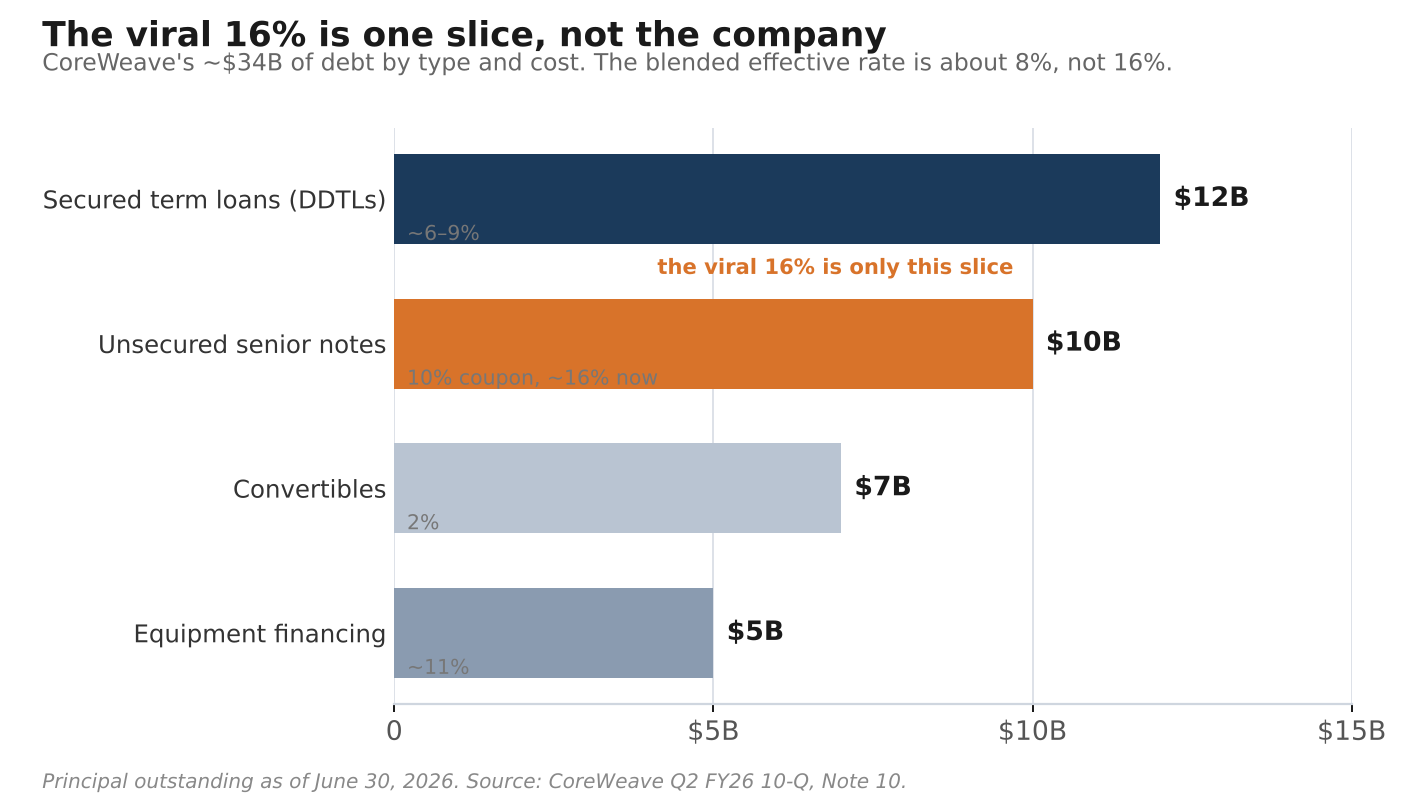
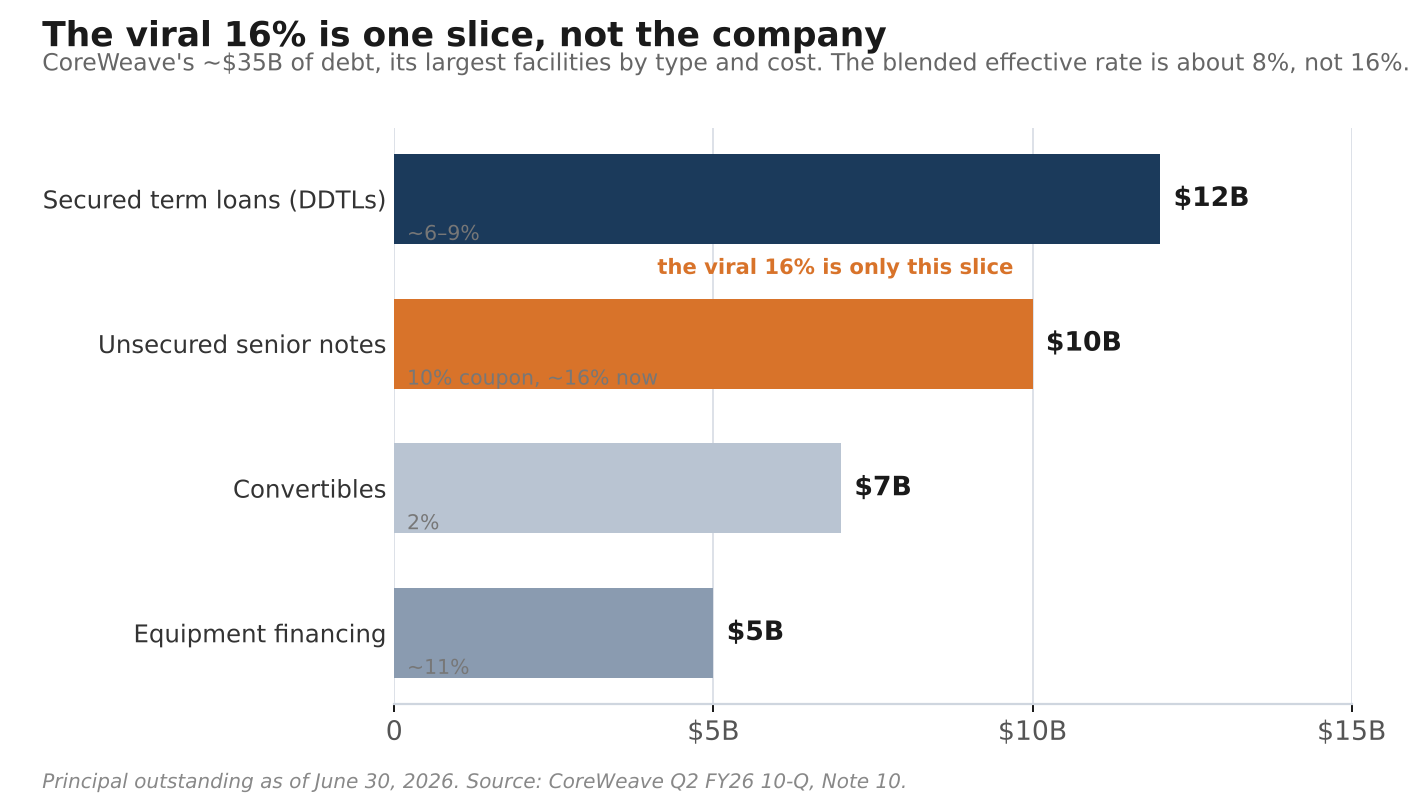
Fix the new labs section, verdict numbers, and chart captions
Labs section: use OpenAI's net number (~$50B net, projecting $70B by
year-end) to match the Oct 8 scare; drop the token-consumption line (not
revenue); soften the backstop (backers have incentive but no obligation,
and Microsoft stepped back from OpenAI this year), which keeps rule 11
meaningful; source Anthropic's $4.7B->$16.8B ramp to FT.

Verdict: '14x' -> '14 times forward earnings'; cut the unsourced rate-move
clause (most of the 30x->14x is earnings growth); 'a third below' ->
'close to 30% below' (14x to 10x is -29%); 'still not in the price' ->
'only starting to be priced' to match the close.

Small: Azure +41% as the hyperscaler-ROI number (MSFT FY26 10-K); C1
caption notes the $/GW only works if each generation earns more per MW
(IREN +125%); C3 now says ~$35B in chart and text.

Claude-Session: https://claude.ai/code/session_01HDhTLet2AMqpzZaHVpR8SL

Changed region(s): [[0.25, 0.0625, 1.0, 0.0938], [0.1562, 0.0625, 0.1875, 0.0938]]

diff --git a/charts/make_charts.py b/charts/make_charts.py
@@ -116,7 +116,7 @@ ax.grid(axis="y", color=GRID, lw=0.8, zorder=0)
 fig.suptitle("Every upgrade sells for more",
              fontsize=15.5, fontweight="bold", color=INK, x=0.085, ha="left", y=0.975)
 fig.text(0.085, 0.905,
-         "NVIDIA's revenue per gigawatt, by chip generation. A refresh is a sale at a higher price.",
+         "NVIDIA's revenue per gigawatt, by generation. It pays only if each one earns more per megawatt.",
          fontsize=10.6, color="#666", va="bottom")
 fig.text(0.085, 0.015,
          "Revenue per gigawatt of deployed compute. Source: NVIDIA roadmap / non-deal roadshow deck, Sep 2026.",
@@ -170,7 +170,7 @@ ax.grid(axis="x", color=GRID, lw=0.8, zorder=0)
 fig.suptitle("The viral 16% is one slice, not the company",
              fontsize=15.5, fontweight="bold", color=INK, x=0.03, ha="left", y=0.975)
 fig.text(0.03, 0.905,
-         "CoreWeave's ~$34B of debt by type and cost. The blended effective rate is about 8%, not 16%.",
+         "CoreWeave's ~$35B of debt, its largest facilities by type and cost. The blended effective rate is about 8%, not 16%.",
          fontsize=10.6, color="#666", va="bottom")
 fig.text(0.03, 0.015,
          "Principal outstanding as of June 30, 2026. Source: CoreWeave Q2 FY26 10-Q, Note 10.",

diff --git a/post2-draft.md b/post2-draft.md
@@ -32,7 +32,7 @@ The neoclouds mostly rent those buildings rather than own them, which is why Cor
 
 So a neocloud is a bet on a powered site, and the chip is the part it refreshes. That turns Burry's 1968 computer-leasing analogy inside out twice. First, the old chip does not have to hold its rent, it has to be replaced, and every replacement is a sale for NVIDIA at a rising price: its revenue per gigawatt has gone from $18 billion with Hopper to $25 billion with Blackwell to $40 billion with Rubin, and the roadmap carries it to $60 billion with Feynman. Second, IBM wanted its leasing companies dead, but NVIDIA wants its neoclouds alive: it owns about 10% of CoreWeave, guarantees its partners' leases, and is building financing platforms to funnel capital to them. The chipmaker is propping up its own lessors, and that cuts two ways. It keeps the neoclouds ordering through a scare that might otherwise freeze them, which helps NVIDIA's sales hold up while their stocks fall. It is also the circularity the bears point at: NVIDIA now carries about $99 billion of equity stakes in its ecosystem, plus roughly $108 billion of lease guarantees behind its customers, most of it tied to a single OpenAI campus. So the same backing turns against it when a tenant fails, and that bill lands partly on NVIDIA, through the guarantees I size in the next section.
 
-[C1: NVIDIA's revenue per gigawatt by chip generation, rising from $18B with Hopper to $60B with Feynman.]
+[C1: NVIDIA's revenue per gigawatt by generation, $18B (Hopper) to $60B (Feynman). It pays only because each generation earns more per megawatt, which IREN's +125% rent supports.]
 
 Does the refresh pay? The operators say it does. Nebius and IREN both report their multi-year deals, at $20 to $25 million per megawatt, earning the cost of the chips back in under two years, and three-year pricing is rising, not falling: IREN's is up about 125% since November 2025, and Nebius raised list prices again on October 1. I will not lean on their two-year statement, because they do not say whether it is before or after the operating costs that take roughly 40% of rent. On the stricter net basis I used for the B200 last time, at 70% utilization, with debt that costs 10%, and after those operating costs, a chip earns its cost back inside its six-year life as long as rent does not fall by more than about half. In my last post's worst case, half-empty clusters funded at that same 10%, the break comes nearer a third. A 44% drop, the worst the H100 has ever shown, lands inside every case but that one. **The cushion is the gap between today's rent, which is still rising, and that break-even, and it is wide.** The shortage ending just removes a scarcity premium the business does not need.
 
@@ -40,7 +40,7 @@ Does the refresh pay? The operators say it does. Nebius and IREN both report the
 
 NVIDIA keeps selling as long as the clouds keep buying, and the clouds keep buying as long as their customers keep paying. Follow that money and the risk splits in two. The hyperscalers, Microsoft, Amazon and Google, were about $49 billion of NVIDIA's $89 billion of data-center revenue last quarter, and they back their buying with the strongest balance sheets in the world, even as their free cash flow thins and they lean more on debt and leases to do it. The other $40 billion, what NVIDIA calls ACIE, includes the neoclouds, which borrow to buy the chips and rent them to the labs and to the hyperscalers' overflow, the extra capacity the giants rent when they run short of their own.
 
-Here is the distinction that matters. The credit risk, the chance a buyer cannot pay its own lenders, sits almost entirely in that ACIE half, with the levered neoclouds. The demand risk, the chance the labs stop paying for compute, reaches both halves, because a lot of what the hyperscalers buy is to serve OpenAI and Anthropic. But the two halves fail differently. If the labs falter, Microsoft does not default, it slows its capex, so the hit reaches NVIDIA later and softer through the $49 billion, and faster and harder through the $40 billion. And for now that softer hit is only hypothetical: the hyperscalers' own AI revenue is finally showing up, which makes the $49 billion sturdier, not weaker. That is the first reason I am not panicking: the half most exposed to a sudden stop is the smaller half.
+Here is the distinction that matters. The credit risk, the chance a buyer cannot pay its own lenders, sits almost entirely in that ACIE half, with the levered neoclouds. The demand risk, the chance the labs stop paying for compute, reaches both halves, because a lot of what the hyperscalers buy is to serve OpenAI and Anthropic. But the two halves fail differently. If the labs falter, Microsoft does not default, it slows its capex, so the hit reaches NVIDIA later and softer through the $49 billion, and faster and harder through the $40 billion. And for now that softer hit is only hypothetical: the hyperscalers' own AI revenue is finally showing up, with Azure growing 41% last quarter, which makes the $49 billion sturdier. That is the first reason I am not panicking: the half most exposed to a sudden stop is the smaller half.
 
 The filing points to spreading rather than a tightening noose. Five direct customers were 70% of NVIDIA's receivables as of July, at 22, 14, 13, 11 and 10 percent. Two quarters earlier, in January, three customers were 56%, at 25, 18 and 13. The top name fell from 25% to 22%, and the top three from 56% to 49%. What rose is the number of customers above the 10% line, from three to five, so revenue is spreading across more large buyers, not concentrating into fewer. NVIDIA does not name them; by its own categories they are the clouds and the manufacturers that assemble the racks, firms like Super Micro and Dell, not the neoclouds, and that last step is my inference, not the filing's.
 
@@ -54,7 +54,7 @@ The stress showed up in credit, not rent, and that gap is the tell. Rent is what
 
 Its Q2 10-Q tells you what the 16% bond yield is and is not. CoreWeave carries about $35 billion of debt, plus another $16 billion of data-center leases, which are rent on buildings it does not own, not borrowed money. By my weighting of the per-facility rates the filing discloses, the debt blends to an effective rate near 8%. The 16% is the market yield on its unsecured senior notes, the slice with no collateral behind it, about $10 billion of face issued around 10% and now trading down, so CoreWeave still pays the old coupon and the 16% is only what a new buyer collects. The rest is cheaper and better secured: about $12 billion of term loans pledged against named customer contracts, including the investment-grade, Meta-backed, Blackstone-anchored facility near 6%; about $5 billion of equipment financing; and about $7 billion of convertibles at 2%. The $2.6 billion DDTL 5.5 my last post covered comes on top of those June figures. So the viral number is the most expensive, most junior slice quoted as if it were the whole company, whose real cost of debt is nearer 8%, and it is a rolling obligation the secured loans chip at monthly, about $6 billion over the next year, while the unsecured notes run to 2030 and beyond.
 
-[C3: CoreWeave's ~$34B of debt by type and cost. The viral 16% is the ~$10B unsecured slice; the blend is about 8%.]
+[C3: CoreWeave's ~$35B of debt, largest facilities by type and cost. The viral 16% is the ~$10B unsecured slice; the blend is about 8%.]
 
 But do not wave the 16% away as a quote on bonds CoreWeave already sold. It pays something like it on the next dollar. A company this far from funding itself has to keep raising, and the price of new money sets what it can afford to build next, which is the line that runs straight back to NVIDIA's order book. That is also why this has not tripped my financing rule yet: the rule asks whether a raise fails to clear or whether new funding costs more than the contract it funds, and so far CoreWeave's secured deals are still clearing. A high CDS is the price of insurance, not a failed refinancing. Jensen Huang said on October 15 that CoreWeave's capital costs are falling and that NVIDIA, which owns about 10% of it, would not bail it out; the stock bounced 6% that day and fell another 12% the next. The reassurance did not hold. This is the opposite of 2006, when the risk hid behind safe ratings. Here it is priced in daylight, and for now it is a cost of capital, not a solvency event.
 
@@ -62,7 +62,7 @@ This is the thing to watch, and it is why the number is credit, not rent. My las
 
 ## So, will the labs keep paying?
 
-More likely than not, yes, and the reason sits one layer above the labs themselves. AI demand is real and still compounding: Anthropic roughly tripled revenue in three quarters and turned the corner on its unit economics, OpenAI is approaching a $70 billion run-rate, and token consumption keeps climbing. The stronger reason is that the labs do not have to self-fund to keep paying. They sit behind the deepest balance sheets in the world, Microsoft behind OpenAI, Google and Amazon behind Anthropic, and those backers will bridge a lab through a rough patch because their own AI revenue now rides on it.
+More likely than not, yes, and the reason sits one layer above the labs themselves. AI demand is real and still compounding: Anthropic more than tripled revenue in three quarters, from $4.7 billion to $16.8 billion, and turned the corner on its unit economics (FT), while OpenAI is running at about $50 billion net and projecting $70 billion by year-end. And the labs do not have to self-fund to keep paying. They have backers with every reason to keep them alive, Microsoft behind OpenAI, Google and Amazon behind Anthropic, though none is obligated to, and Microsoft has spent this year stepping back, ending Azure exclusivity in April and dropping its revenue share. The incentive is there; the backstop is softer than it looks.
 
 So the thing that actually ends this is a funding failure, not a collapse in demand. OpenAI has to keep raising, into a market that just repriced, and if a round shrinks or a lender balks, the compute it already committed to stops getting paid for long before any customer stops wanting it. That is why I watch the credit tape and not the rent, and why the two numbers on my dashboard are CoreWeave's next raise and OpenAI's.
 
@@ -70,7 +70,7 @@ So the thing that actually ends this is a funding failure, not a collapse in dem
 
 So: when the memory shortage ends, what happens to NVIDIA, and is it a hold or a buy?
 
-When the shortage ends, almost nothing happens to the business. Rent on old chips falls, the neocloud swaps in NVIDIA's next chip, which earns its cost back well inside its six-year life even after operating costs, and NVIDIA books the sale at a higher price per gigawatt. The scarcity premium comes out of the multiple, and it is happening in real time: NVIDIA trades at about 14 times next year's earnings, down from above 30 a year ago, and part of even that slip is the rate move, with the 10-year elevated, not anything about NVIDIA. That is the price of a business the market expects to slow, not one it expects to break. If the market expected a lab to fail and take a quarter of next year's revenue, NVIDIA would trade where Micron does, near six times. It does not, even after this week. And here is the number for Burry: his puts are on the stock, so they pay through the multiple, and for them to pay the market has to put NVIDIA under ten times, roughly a third below today's price. I think it takes a lab running out of money, or a broad rate-driven de-rating that would show up in the 10-year first, to get it there. The lab side is the one still not in the price.
+When the shortage ends, almost nothing happens to the business. Rent on old chips falls, the neocloud swaps in NVIDIA's next chip, which earns its cost back well inside its six-year life even after operating costs, and NVIDIA books the sale at a higher price per gigawatt. The scarcity premium comes out of the multiple, and it is happening in real time: NVIDIA trades at about 14 times forward earnings, down from above 30 a year ago. That is the price of a business the market expects to slow, not one it expects to break. If the market expected a lab to fail and take a quarter of next year's revenue, NVIDIA would trade where Micron does, near six times. It does not, even after this week. And here is the number for Burry: his puts are on the stock, so they pay through the multiple, and for them to pay the market has to put NVIDIA under ten times, close to 30% below today's price. I think it takes a lab running out of money, or a broad rate-driven de-rating that would show up in the 10-year first, to get it there. The lab side is only starting to be priced.
 
 **So NVIDIA is a hold, and a buy on weakness, on one condition. Not that the shortage lasts. That the labs keep paying.** The shortage ending does not make it a sell; it makes it cheaper for the same earnings. A lab that stops paying is the only thing that makes it a sell, and that is the number I am watching, in CoreWeave's bonds and OpenAI's next raise, not in the rent on a used H100. I will be precise about this week, because it cut both ways. One lab moved toward profitability and rent kept rising, which is the demand case. Against that, the most levered lessor's credit stress hit a record, a Chinese memory threat emerged, and SB Energy's listing stalled on OpenAI concentration. I weight the first two for NVIDIA because they speak to demand and the chip economics, and the credit stress, so far, has stayed a financing problem and not a solvency one. The demand case held while the price fell, so I will take that trade, with my eyes on the credit tape, and keep some powder dry.
 
